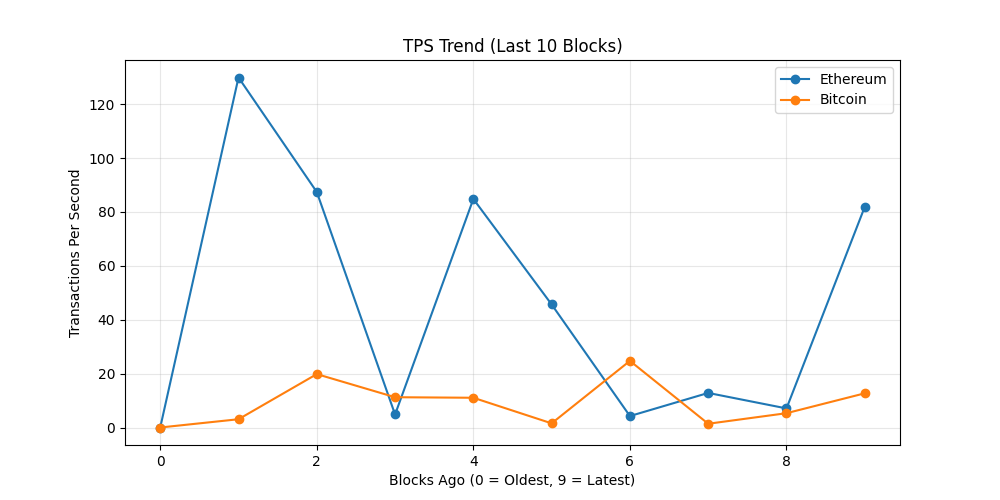
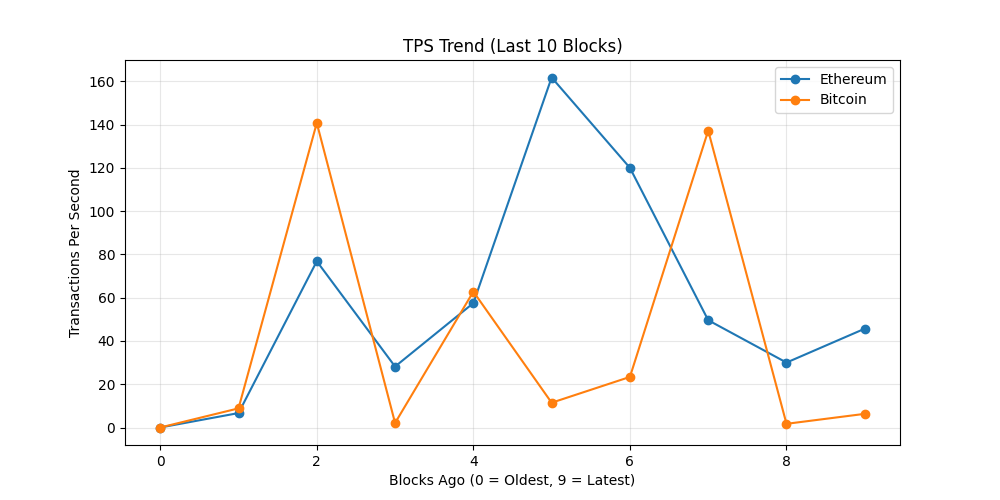
chore: update on-chain dashboard

diff --git a/README.md b/README.md
@@ -19,7 +19,7 @@ The README itself acts as the dashboard and is regenerated automatically on a 6 
 demonstrating a production-style, infrastructure-focused observability workflow rather
 than a traditional UI-driven approach.
 
-_Last updated: 2026-04-12 07:43 UTC_
+_Last updated: 2026-04-12 13:34 UTC_
 
 ## API Usage (GetBlock.io)
 - Calls used: **24**
@@ -27,8 +27,8 @@ _Last updated: 2026-04-12 07:43 UTC_
 ## Network Metrics
 | Chain | Block Height | TX Count | TPS (10 blk avg) | Block Util | Avg Fee |
 |------|-------------|----------|------------------|------------|---------|
-| Ethereum | 24862253 | 983 | 81.92 | 61.74% | 0.1 Gwei |
-| Bitcoin | 944707 | 5709 | 12.69 | 99.79% | N/A |
+| Ethereum | 24863997 | 548 | 45.67 | 36.28% | 0.2 Gwei |
+| Bitcoin | 944744 | 3402 | 6.31 | 99.79% | N/A |
 
 ## Visuals
 ### Transactions Trend
@@ -43,9 +43,11 @@ _Last updated: 2026-04-12 07:43 UTC_
 ## Whale Alerts (latest block)
 - Transaction hashes are truncated for readability.
 - Full hashes are available in `dashboards/metrics.json`
-- Bitcoin | 147.15 BTC | `ef10e699416f…`
-- Bitcoin | 146.98 BTC | `5777dd4224ae…`
-- Bitcoin | 151.14 BTC | `a04665e388fa…`
+- Bitcoin | 350.0 BTC | `a41d10c27076…`
+- Bitcoin | 145.36 BTC | `f4a449f0b4ab…`
+- Bitcoin | 149.98 BTC | `2f77c3bee61a…`
+- Bitcoin | 144.5 BTC | `a7a460bbea24…`
+- Bitcoin | 148.38 BTC | `7b51c07aee3e…`
 
 ## Run locally
 
